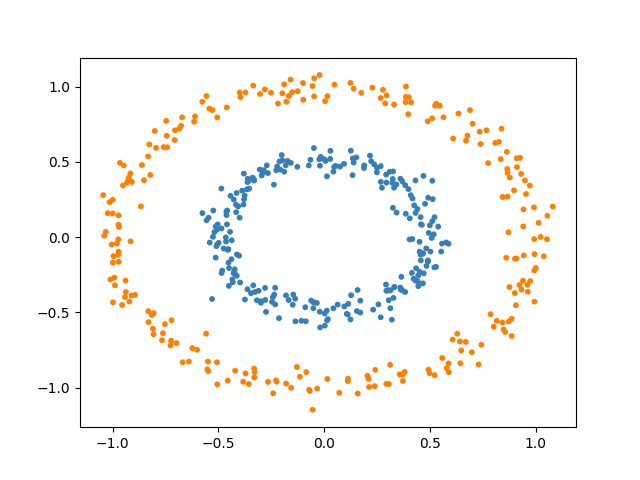
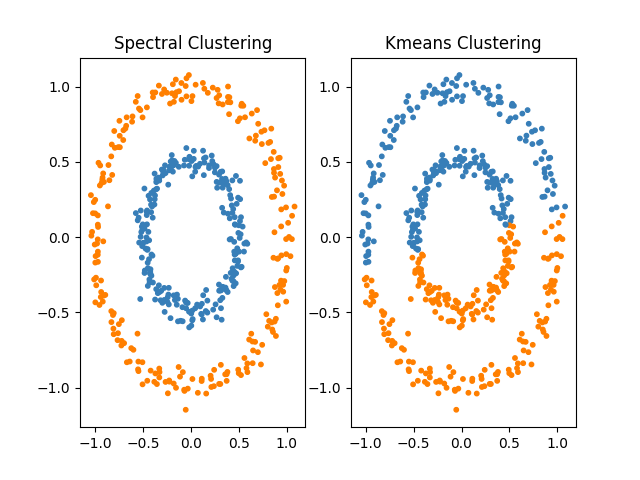
add Kmeans Clustering for comparison

diff --git a/utils/ploter.py b/utils/ploter.py
@@ -2,11 +2,16 @@ from matplotlib import pyplot as plt
 from itertools import cycle, islice
 import numpy as np
 
-def plot(X,y):
+def plot(X, y_sp, y_km):
     colors = np.array(list(islice(cycle(['#377eb8', '#ff7f00', '#4daf4a',
                                                 '#f781bf', '#a65628', '#984ea3',
                                                 '#999999', '#e41a1c', '#dede00']),
-                                        int(max(y) + 1))))
-    plt.scatter(X[:,0], X[:,1], s=10, color=colors[y])
+                                        int(max(y_km) + 1))))
+    plt.subplot(121)
+    plt.scatter(X[:,0], X[:,1], s=10, color=colors[y_sp])
+    plt.title("Spectral Clustering")
+    plt.subplot(122)
+    plt.scatter(X[:,0], X[:,1], s=10, color=colors[y_km])
+    plt.title("Kmeans Clustering")
     # plt.show()
     plt.savefig("../figures/spectral_clustering.png")

diff --git a/src/main.py b/src/main.py
@@ -25,6 +25,8 @@ x = sorted(x, key=lambda x:x[0])
 
 H = np.vstack([V[:,i] for (v, i) in x[:500]]).T
 
-kmeans = KMeans(n_clusters=2).fit(H)
+sp_kmeans = KMeans(n_clusters=2).fit(H)
 
-plot(data, kmeans.labels_)
+pure_kmeans = KMeans(n_clusters=2).fit(data)
+
+plot(data, sp_kmeans.labels_, pure_kmeans.labels_)

diff --git a/readme.md b/readme.md
@@ -1,3 +1,13 @@
 # Spectral Clustering
 
-## 
+A python implementation of Spectral Clustering, tested on twocircle dataset of sklearn.
+
+## Usage
+
+```bash
+sudo chmod u+x run.sh
+./run.sh
+```
+
+## Result
+
